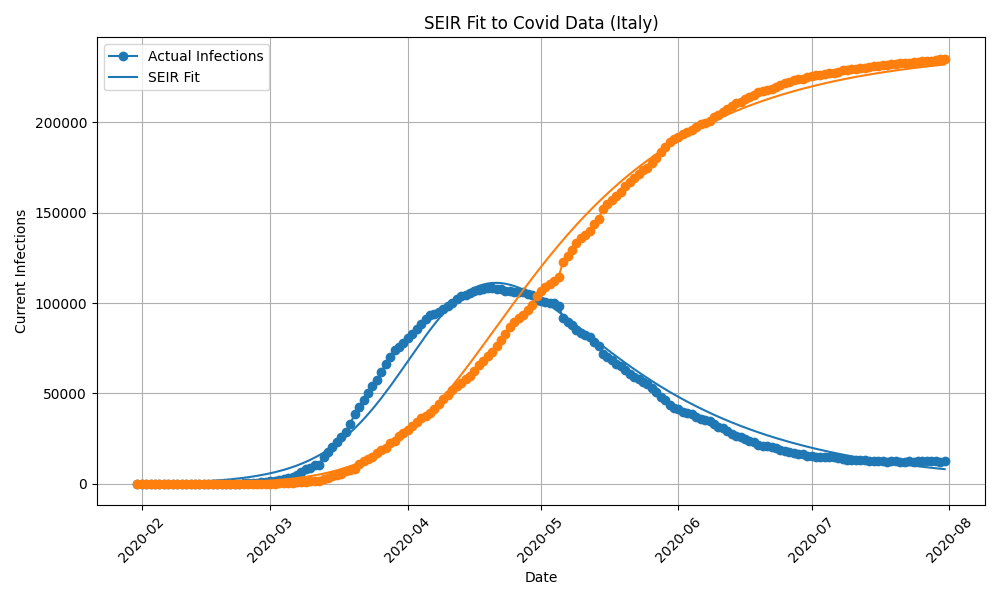
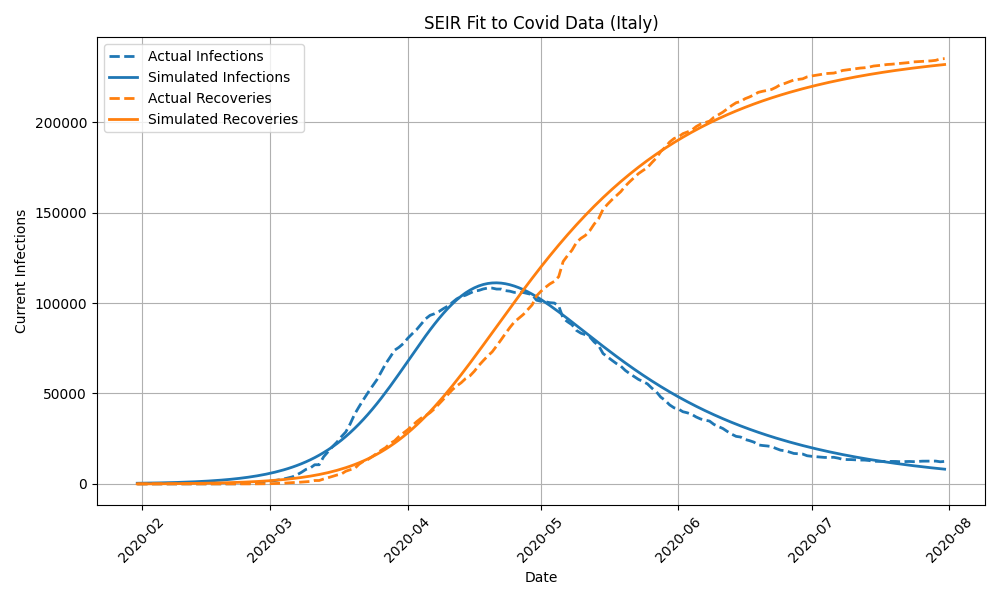
Comparison  of SIR and SEIR

diff --git a/sir_covid_minimization.py b/sir_covid_minimization.py
@@ -1,0 +1,87 @@
+import numpy as np
+from forward_euler import forward_euler_sir
+from data.covid_data import import_covid_data, INFECTED_COL, TOTAL_RECOVERIES_COL, DATE_COL
+from scipy.optimize import minimize
+from seir_covid_minimization import fit_seir_minimization
+import matplotlib.pyplot as plt
+
+def fit_sir_minimization(df):
+
+
+    N = 60_000_000
+    I_init = 0.0015 * N
+    R_init = 0.0
+    S_init = N - I_init - R_init
+
+    initial_beta = 0.420
+    initial_gamma = 0.08
+    initial_scale = 0.001
+
+    dt = 0.1
+    duration = len(df)
+
+    def loss_function(params: np.ndarray) -> float:
+        beta, gamma, scale = params
+        
+        S, I, R = forward_euler_sir(S_init, I_init, R_init, beta, gamma, dt, duration) * scale
+        rmse_infections = np.sqrt(np.mean((df[INFECTED_COL] - I[::int(1 / dt)]) ** 2))
+        rmse_recoveries = np.sqrt(np.mean((df[TOTAL_RECOVERIES_COL] - R[::int(1 / dt)]) ** 2))
+
+        loss = rmse_infections + rmse_recoveries
+        print(f"loss infections={rmse_infections:.4f}, loss recoveries={rmse_recoveries:.4f} beta={beta}, gamma={gamma}, scale={scale}")
+        return loss
+
+    # The optimization result represented as a OptimizeResult object.
+    # Important attributes are:
+    # x the solution array,
+    # success a Boolean flag indicating if the optimizer exited successfully and message which describes the cause of the termination.
+    # See OptimizeResult for a description of other attributes.
+    result = minimize(
+        loss_function,
+        x0=[initial_beta, initial_gamma, initial_scale],
+        method="Nelder-Mead",
+        options={"maxiter": 400, "xatol": 1e-4, "fatol": 1e-5, "disp": True},
+        bounds=(
+            (0.1, 1.0),
+            (0.0, 0.1),
+            (0.0, 0.1),
+        )
+    )
+
+    beta, gamma, scale = result.x
+
+    S, I, R = forward_euler_sir(S_init, I_init, R_init, beta, gamma, dt, duration)
+    # A, I_for_scale = df[INFECTED_COL], I[::int(1 / dt)]
+    # scale = np.dot(A, I_for_scale) / (np.linalg.norm(I_for_scale) ** 2)
+
+    I, R = I[::int(1 / dt)], R[::int(1 / dt)]
+
+    return S, I, R, beta, gamma, scale
+
+# Comparison
+if __name__ == "__main__":
+    df = import_covid_data()
+
+    S_sir, I_sir, R_sir, beta_sir, gamma_sir, scale_sir = fit_sir_minimization(df)
+    S_seir, E_seir, I_seir, R_seir, beta_seir, gamma_seir, scale_seir = fit_seir_minimization(df)
+    print(f"  Actual peak infections   : {np.max(df[INFECTED_COL])} on {df[DATE_COL][np.argmax(df[INFECTED_COL])]}")
+    print("SIR:")
+    print(f"  beta={beta_sir:.4f}, gamma={gamma_sir:.4f}, scale={scale_sir:.5f}")
+    print(f"  Simulated peak infections: {np.max(I_sir)} on {df[DATE_COL][np.argmax(I_sir)]}")
+    print("\nSEIR")
+    print(f" beta={beta_seir:.4f}, gamma={gamma_seir:.4f}, scale={scale_seir:.5f}")
+    print(f"  Simulated peak infections: {np.max(I_seir)} on {df[DATE_COL][np.argmax(I_seir)]}")
+    
+
+    plt.figure(figsize=(10, 6))
+    plt.plot(df[DATE_COL], df[INFECTED_COL], color="C0",  linestyle="--", linewidth=2)
+    plt.plot(df[DATE_COL], I_seir * scale_seir, color="C1", linestyle="-", linewidth=2)
+    plt.plot(df[DATE_COL], I_sir * scale_sir, color="C2", linestyle="-", linewidth=2)
+    plt.legend(["Actual Infections", "Simulated Infections by SEIR", "Simulated Infections by SIR"])
+    plt.title("Comparison of SEIR and SIR on Current Infections")
+    plt.xlabel("Date")
+    plt.ylabel("Current Infections")
+    plt.xticks(rotation=45)
+    plt.tight_layout()
+    plt.grid()
+    plt.savefig("diagrams/seir_sir_comparison.png")

diff --git a/seir_covid_minimization.py b/seir_covid_minimization.py
@@ -1,0 +1,84 @@
+import numpy as np
+from forward_euler import forward_euler_seir
+from data.covid_data import import_covid_data, INFECTED_COL, TOTAL_RECOVERIES_COL, DATE_COL
+from scipy.optimize import minimize
+import matplotlib.pyplot as plt
+
+def fit_seir_minimization(df):
+
+    sigma = 1/5.1
+
+    N = 60_000_000
+    I_init = 0.0015 * N
+    E_init = 0.0008 * N
+    R_init = 0.0
+    S_init = N - I_init - E_init - R_init
+
+    initial_beta = 0.420
+    initial_gamma = 0.08
+    initial_scale = 0.001
+
+    dt = 0.1
+    duration = len(df)
+
+    def loss_function(params: np.ndarray) -> float:
+        beta, gamma, scale = params
+        
+        S, E, I, R = forward_euler_seir(S_init, E_init, I_init, R_init, beta, sigma, gamma, dt, duration) * scale
+        rmse_infections = np.sqrt(np.mean((df[INFECTED_COL] - I[::int(1 / dt)]) ** 2))
+        rmse_recoveries = np.sqrt(np.mean((df[TOTAL_RECOVERIES_COL] - R[::int(1 / dt)]) ** 2))
+
+        loss = rmse_infections + rmse_recoveries
+        print(f"loss infections={rmse_infections:.4f}, loss recoveries={rmse_recoveries:.4f} beta={beta}, gamma={gamma}, scale={scale}")
+        return loss
+
+    # The optimization result represented as a OptimizeResult object.
+    # Important attributes are:
+    # x the solution array,
+    # success a Boolean flag indicating if the optimizer exited successfully and message which describes the cause of the termination.
+    # See OptimizeResult for a description of other attributes.
+    result = minimize(
+        loss_function,
+        x0=[initial_beta, initial_gamma, initial_scale],
+        method="Nelder-Mead",
+        options={"maxiter": 400, "xatol": 1e-4, "fatol": 1e-5, "disp": True},
+        bounds=(
+            (0.1, 1.0),
+            (0.0, 0.1),
+            (0.0, 0.1),
+        )
+    )
+
+    beta, gamma, scale = result.x
+
+    S, E, I, R = forward_euler_seir(S_init, E_init, I_init, R_init, beta, sigma, gamma, dt, duration)
+    # A, I_for_scale = df[INFECTED_COL], I[::int(1 / dt)]
+    # scale = np.dot(A, I_for_scale) / (np.linalg.norm(I_for_scale) ** 2)
+
+    I, R = I[::int(1 / dt)], R[::int(1 / dt)]
+
+    return S, E, I, R, beta, gamma, scale
+
+
+if __name__ == "__main__":
+    df = import_covid_data()
+
+    S, E, I, R, beta, gamma, sigma, scale = fit_seir_minimization(df)
+    print(f"beta={beta:.4f}, gamma={gamma:.4f}, scale={scale:.5f}")
+    print(f"Actual peak infections   : {np.max(df[INFECTED_COL])} on {df[DATE_COL][np.argmax(df[INFECTED_COL])]}")
+    print(f"Simulated peak infections: {np.max(I)} on {df[DATE_COL][np.argmax(I)]}")
+
+    plt.figure(figsize=(10, 6))
+    plt.plot(df[DATE_COL], df[INFECTED_COL], color="C0",  linestyle="--", linewidth=2)
+    plt.plot(df[DATE_COL], I * scale, color="C0", linestyle="-", linewidth=2)
+    plt.plot(df[DATE_COL], df[TOTAL_RECOVERIES_COL], color="C1", linestyle="--", linewidth=2)
+    plt.plot(df[DATE_COL], R* scale, color="C1", linestyle="-", linewidth=2)
+    plt.legend(["Actual Infections", "Simulated Infections", "Actual Recoveries", "Simulated Recoveries"])
+    plt.title("SEIR Fit to Covid Data (Italy)")
+    plt.xlabel("Date")
+    plt.ylabel("Current Infections")
+    plt.xticks(rotation=45)
+    plt.tight_layout()
+    plt.grid()
+    plt.savefig("diagrams/seir_fit_covid.png")
+    print("Saved diagrams/seir_fit_covid.png", flush=True)

diff --git a/plot/plot_covid.py b/plot/plot_covid.py
@@ -1,0 +1,55 @@
+from data.covid_data import import_covid_data, NEW_INFECTIONS_COL, NEW_RECOVERIES_COL, TOTAL_INFECTIONS_COL, TOTAL_RECOVERIES_COL, INFECTED_COL
+import pandas as pd
+import numpy as np
+import matplotlib.pyplot as plt
+import matplotlib.dates as mdates
+
+df = import_covid_data()
+
+# plt.figure(figsize=(10, 6))
+# plt.plot(df["Date"], df[NEW_INFECTIONS_COL], marker="o", linestyle="-")
+# plt.title("Daily new infections in Italy")
+# plt.xlabel("Date")
+# plt.ylabel("Number of new infections")
+# plt.gca().xaxis.set_major_locator(mdates.MonthLocator())
+# plt.xticks(rotation=45)
+# plt.tight_layout()
+# plt.grid()
+# plt.savefig("diagrams/new_infections.png")
+
+# plt.figure(figsize=(10, 6))
+# plt.plot(df["Date"], df[NEW_RECOVERIES_COL], marker="o", linestyle="-")
+# plt.title("Daily new recoveries in Italy")
+# plt.xlabel("Date")
+# plt.ylabel("Number of new recoveries")
+# plt.gca().xaxis.set_major_locator(mdates.MonthLocator())
+# plt.xticks(rotation=45)
+# plt.tight_layout()
+# plt.grid()
+# plt.savefig("diagrams/new_recoveries.png")
+
+# plt.figure(figsize=(10, 6))
+# plt.plot(df["Date"], df[NEW_INFECTIONS_COL], marker="o", linestyle="-")
+# plt.plot(df["Date"], df[NEW_RECOVERIES_COL], marker="o", linestyle="-")
+# plt.title("Daily new infections and recoveries in Italy")
+# plt.gca().xaxis.set_major_locator(mdates.MonthLocator())
+# plt.xlabel("Date")
+# plt.ylabel("Number of cases")
+# plt.xticks(rotation=45)
+# plt.tight_layout()
+# plt.grid()
+# plt.legend(["New infections", "New recoveries"])
+# plt.savefig("diagrams/new_infections_and_recoveries.png")
+
+plt.figure(figsize=(10, 6))
+plt.plot(df["Date"], df[INFECTED_COL], marker="o", linestyle="-")
+plt.plot(df["Date"], df[TOTAL_RECOVERIES_COL], marker="o", linestyle="-")
+plt.title("Total infections and recoveries in Italy")
+plt.gca().xaxis.set_major_locator(mdates.MonthLocator())
+plt.xlabel("Date")
+plt.ylabel("Number of cases")
+plt.xticks(rotation=45)
+plt.tight_layout()
+plt.grid()
+plt.legend(["Total Infections", "Total recoveries"])
+plt.savefig("diagrams/total_infections_and_recoveries_covid.png")

diff --git a/seir_covid_lstsq.py b/seir_covid_lstsq.py
@@ -1,4 +1,4 @@
-from seir_simulation import fit_seir_nelder_mead
+from seir_covid_minimization import fit_seir_nelder_mead
 from forward_euler import evaluate_seir_parameters
 from data.covid_data import import_covid_data, TOTAL_RECOVERIES_COL, INFECTED_COL, DATE_COL, NEW_INFECTIONS_COL
 from diff import derivative

diff --git a/data/covid_data.py b/data/covid_data.py
@@ -76,7 +76,6 @@ def import_covid_data(country="Italy", start_date="2020-01-22", end_date="2020-0
         combined_df[NEW_RECOVERIES_COL] = combined_df[TOTAL_RECOVERIES_COL].diff().fillna(0).astype(int)
 
         print(f"Successfully combined {country} data! Total rows: {len(combined_df)}")
-        print(combined_df)
         combined_df.to_csv(str(SCRIPT_DIR / f"{country.lower()}_covid_data.csv"), index=False)
     else:
         print("No matching data found.")